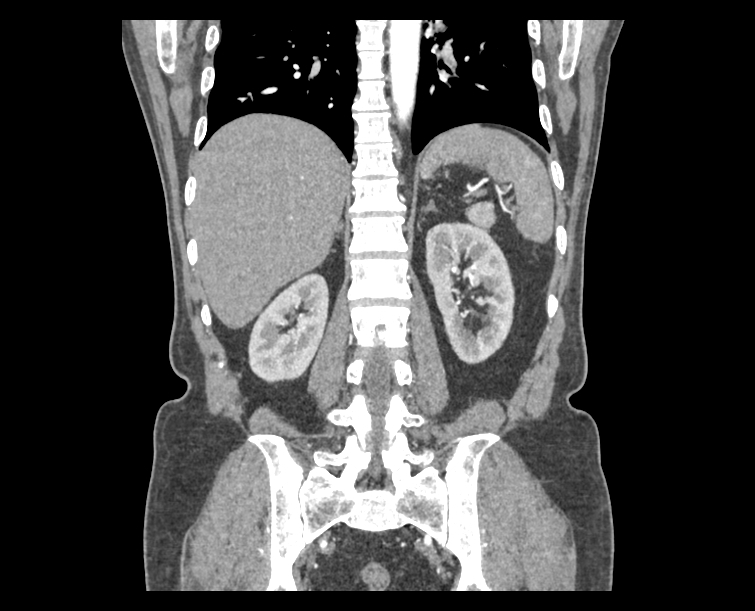
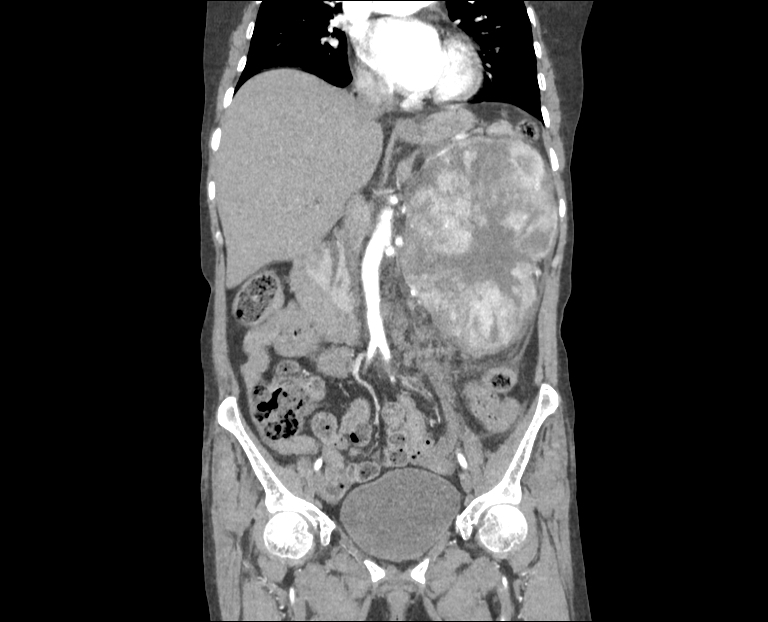
added model file

diff --git a/src/cnnClasifier/pipeline/prediction.py b/src/cnnClasifier/pipeline/prediction.py
@@ -13,16 +13,17 @@ class PredictionPipeline:
     
     def predict(self):
         # load model
-        model = load_model(os.path.join("artifacts", "training", "model.h5"))
+        model = load_model(os.path.join("model", "model.h5"))
 
         imagename = self.filename
         test_image = image.load_img(imagename, target_size = (224,224))
         test_image = image.img_to_array(test_image)
+        test_image = test_image / 255.0
         test_image = np.expand_dims(test_image, axis = 0)
         result = np.argmax(model.predict(test_image), axis=1)
         print(result)
 
-        
+
 
         if result[0] == 1:
             prediction = 'Tumor'